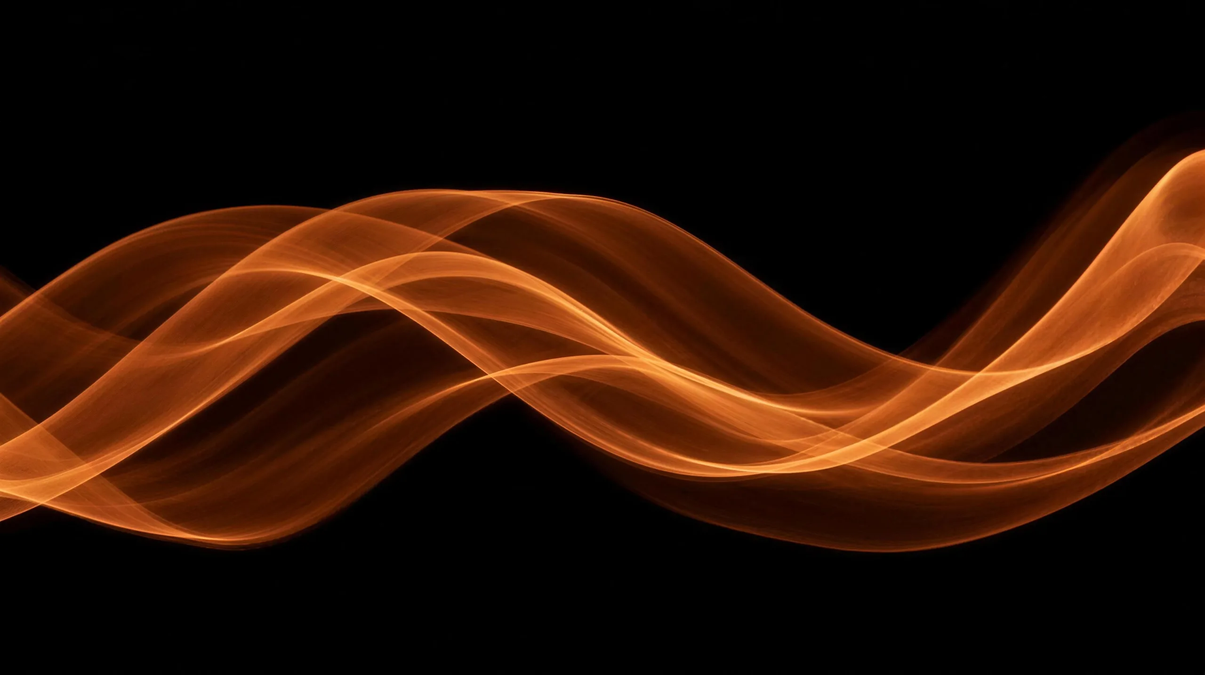
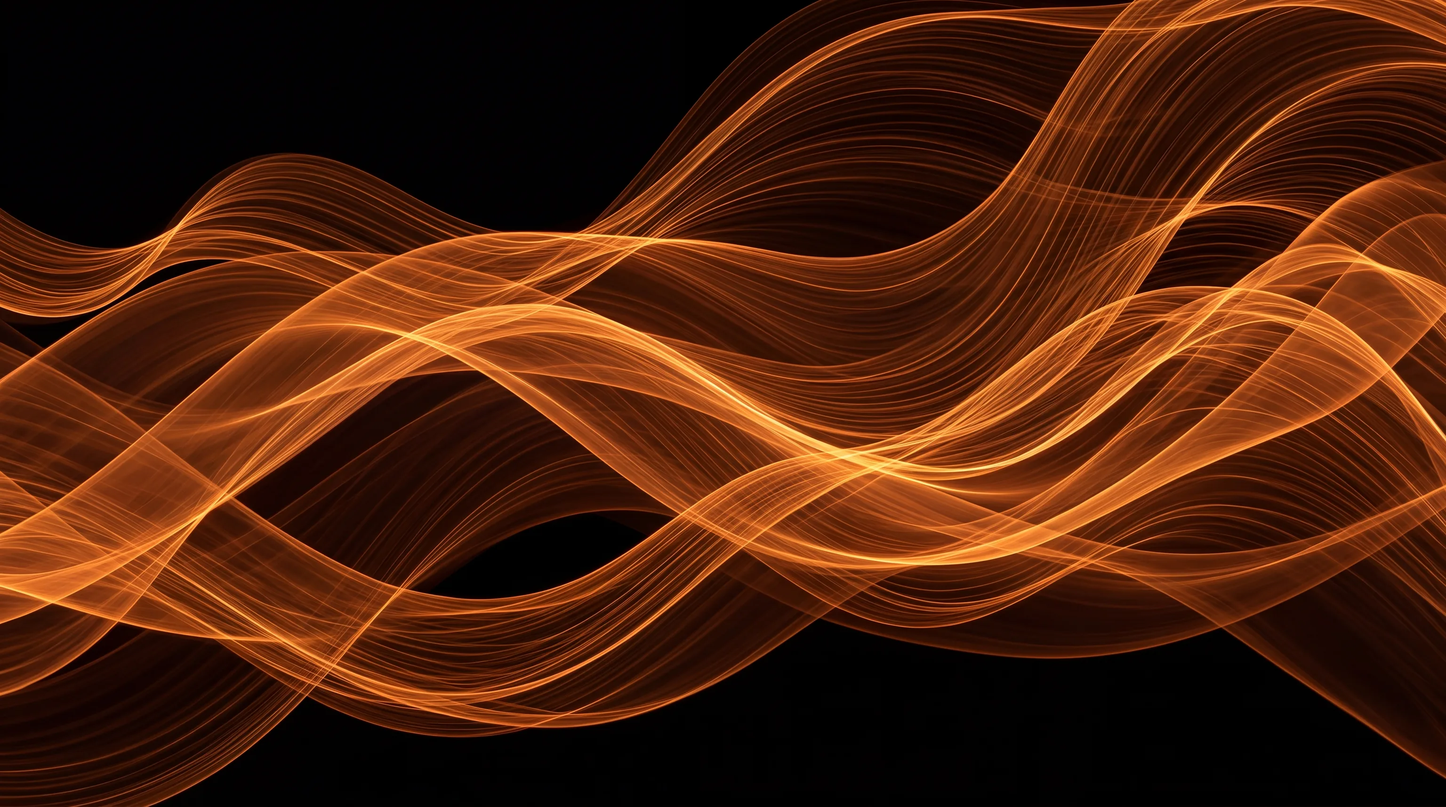
feat(webshop): PULSE v2 — native-4k sfeerbeelden, vollere hero, meer beweging
- Alle 5 sfeerbeelden opnieuw GEGENEREERD met Higgsfield op native 4k
  (5504x3072, nano_banana_flash met het oude beeld als referentie =
  kloon van dezelfde compositie, nu echt scherp) -> 3072px-webp
- 3 NIEUWE productloze sfeerbeelden: regen-treinraam (Werk & school-
  sectie), sterrenhemel (Never at 0.-break voor de finale), warme
  bokeh-partikels (stille FAQ-onderlaag) — alle ge-QA'd (geen product/
  tekst/bliksem)
- Hero voller + powerbank groter: 5/7-grid (reactor domineert), cirkel
  max 640px + product 12% ingezoomd, derde orbit-ring + 2 satellieten +
  pulserende buitengloed; stat-chips en betaalchips vullen de
  linkerkolom (conversie-trust ATF)
- Extra beweging (compositor-only, geen perf-kosten): MarqueeBand
  tussen gallery en sfeerbanden, zachte float-stagger op de tilt-cards
  (eigen wrapper — botst niet met de framer-tilt-transform), nieuwe
  AtmosFeature Werk & school met parallax
- .next image-cache geleegd; reduced-motion-gates uitgebreid

Verificatie: tsc + build schoon (home 194kB First Load); prod-screenshots
desktop+mobiel console-clean, 0px h-overflow; scherpte visueel bevestigd.

diff --git a/components/pulse/PulseHero.tsx b/components/pulse/PulseHero.tsx
@@ -50,13 +50,13 @@ export default function PulseHero() {
         <EmberDrift />
       </div>
 
-      <div className="relative mx-auto grid w-full max-w-[1440px] grid-cols-1 items-center gap-12 px-6 pb-16 pt-28 lg:grid-cols-2 lg:gap-6 lg:px-10 lg:pb-20 lg:pt-24">
+      <div className="relative mx-auto grid w-full max-w-[1440px] grid-cols-1 items-center gap-12 px-6 pb-16 pt-28 lg:grid-cols-12 lg:gap-8 lg:px-10 lg:pb-20 lg:pt-24">
         {/* tekst */}
         <motion.div
           initial={reduce ? false : { opacity: 0, y: 26 }}
           animate={{ opacity: 1, y: 0 }}
           transition={{ duration: 0.7, ease: EASE }}
-          className="order-2 flex flex-col items-start lg:order-1"
+          className="order-2 flex flex-col items-start lg:order-1 lg:col-span-5"
         >
           <span className="font-mono text-[0.66rem] uppercase tracking-[0.26em] text-white/55">
             {BRAND.wordmark} · {BRAND.product}
@@ -87,9 +87,35 @@ export default function PulseHero() {
             </Link>
           </div>
 
+          {/* stat-chips — vullen de linkerkolom + scanbare USP's (bestaande termen) */}
+          <div className="mt-8 flex flex-wrap gap-2.5">
+            {[
+              `${capacityFormatted} mAh`,
+              t('spec_icons.devices', { n: SPECS.simultaneousDevices.value }),
+              t('spec_icons.label_fastcharge'),
+              t('spec_icons.display'),
+            ].map((label) => (
+              <span
+                key={label}
+                className="rounded-full border border-white/[0.12] bg-white/[0.04] px-3.5 py-1.5 font-mono text-[0.62rem] uppercase tracking-[0.14em] text-white/75 backdrop-blur-sm"
+              >
+                {label}
+              </span>
+            ))}
+          </div>
+
           <p className="mt-6 font-body text-[12px] text-[#9C9C9C]">
             {t('trust_inline', { days: safe(TBD.returnPolicyDays) ?? 14 })}
           </p>
+
+          {/* betaal-vertrouwen — stil, vult de lege onderruimte */}
+          <div className="mt-3 flex flex-wrap items-center gap-1.5">
+            {['iDEAL', 'Apple Pay', 'Klarna', 'Visa', 'Mastercard', 'PayPal'].map((m) => (
+              <span key={m} className="rounded border border-white/[0.08] bg-white/[0.03] px-2 py-0.5 font-mono text-[0.56rem] text-[#8E8E8E]">
+                {m}
+              </span>
+            ))}
+          </div>
         </motion.div>
 
         {/* reactor — zwevende cirkel + orbit-ringen */}
@@ -97,27 +123,35 @@ export default function PulseHero() {
           initial={reduce ? false : { opacity: 0, scale: 0.94 }}
           animate={{ opacity: 1, scale: 1 }}
           transition={{ duration: 0.8, delay: 0.1, ease: EASE }}
-          className="order-1 flex items-center justify-center lg:order-2"
+          className="order-1 flex items-center justify-center lg:order-2 lg:col-span-7"
         >
-          <div className="relative aspect-square w-[78vw] max-w-[420px] lg:max-w-[520px]">
-            {/* orbit-ringen */}
-            <svg aria-hidden viewBox="0 0 100 100" className="pulse-ring absolute -inset-[7%] h-[114%] w-[114%]">
-              <circle cx="50" cy="50" r="48.5" fill="none" stroke="rgba(255,140,0,0.35)" strokeWidth="0.35" strokeDasharray="2.4 4.2" />
+          <div className="relative aspect-square w-[88vw] max-w-[460px] lg:max-w-[640px]">
+            {/* orbit-ringen — drie lagen + twee satellieten */}
+            <svg aria-hidden viewBox="0 0 100 100" className="pulse-ring absolute -inset-[6%] h-[112%] w-[112%]">
+              <circle cx="50" cy="50" r="48.5" fill="none" stroke="rgba(255,140,0,0.4)" strokeWidth="0.35" strokeDasharray="2.4 4.2" />
+              <circle cx="98.5" cy="50" r="0.9" fill="#FF8C00" />
             </svg>
-            <svg aria-hidden viewBox="0 0 100 100" className="pulse-ring-rev absolute -inset-[14%] h-[128%] w-[128%]">
-              <circle cx="50" cy="50" r="48.5" fill="none" stroke="rgba(255,255,255,0.14)" strokeWidth="0.25" strokeDasharray="0.7 6.5" />
+            <svg aria-hidden viewBox="0 0 100 100" className="pulse-ring-rev absolute -inset-[13%] h-[126%] w-[126%]">
+              <circle cx="50" cy="50" r="48.5" fill="none" stroke="rgba(255,255,255,0.15)" strokeWidth="0.25" strokeDasharray="0.7 6.5" />
               <circle cx="50" cy="1.5" r="1.1" fill="#FF8C00" />
             </svg>
+            <svg aria-hidden viewBox="0 0 100 100" className="pulse-ring absolute -inset-[20%] h-[140%] w-[140%]" style={{ animationDuration: '70s' }}>
+              <circle cx="50" cy="50" r="48.5" fill="none" stroke="rgba(255,140,0,0.12)" strokeWidth="0.2" strokeDasharray="0.4 9" />
+              <circle cx="1.5" cy="50" r="0.7" fill="rgba(255,170,80,0.9)" />
+            </svg>
+
+            {/* pulserende buitengloed */}
+            <div aria-hidden className="hero-glow-pulse absolute inset-[6%] rounded-full" style={{ boxShadow: '0 0 130px rgba(255,140,0,0.35)' }} />
 
             {/* zwevend halo-product in cirkel */}
-            <div className="pulse-float absolute inset-0 overflow-hidden rounded-full border border-white/[0.1] shadow-[0_0_90px_rgba(255,140,0,0.25)]">
+            <div className="pulse-float absolute inset-0 overflow-hidden rounded-full border border-white/[0.12] shadow-[0_0_110px_rgba(255,140,0,0.3)]">
               <Image
                 src="/images/titanx/gallery/v2/energy-halo.webp"
                 alt={`${BRAND.text} ${BRAND.product} — ${capacityFormatted} mAh power bank met gloeiende lichtring`}
                 fill
                 priority
-                sizes="(max-width: 1024px) 78vw, 520px"
-                className="object-cover object-[52%_38%]"
+                sizes="(max-width: 1024px) 88vw, 640px"
+                className="object-cover object-[52%_38%] scale-[1.12]"
               />
             </div>
           </div>

diff --git a/app/[locale]/page.tsx b/app/[locale]/page.tsx
@@ -5,6 +5,7 @@ import MaisonNav from '@/components/atelier/MaisonNav';
 import PulseHero from '@/components/pulse/PulseHero';
 import StatPulse from '@/components/pulse/StatPulse';
 import TiltGallery from '@/components/pulse/TiltGallery';
+import MarqueeBand from '@/components/industrial/MarqueeBand';
 import AtmosFeature from '@/components/pulse/AtmosFeature';
 import AtmosBreak from '@/components/pulse/AtmosBreak';
 import SpecsPulse from '@/components/pulse/SpecsPulse';
@@ -59,6 +60,7 @@ export default function Home() {
       <PulseHero />
       <StatPulse />
       <TiltGallery />
+      <MarqueeBand />
       <AtmosFeature
         kicker="Road trips"
         title="Camera, telefoon en speakers"
@@ -79,6 +81,15 @@ export default function Home() {
         productPos="object-[center_55%]"
         flip
       />
+      <AtmosFeature
+        kicker="Werk & school"
+        title="Laptop bijna leeg"
+        accent="in de trein?"
+        body="Laadt ook laptops via de ingebouwde USB-C kabel."
+        atmosphere="/images/atmosphere/rain.webp"
+        product="/images/titanx/gallery/v2/life-train.webp"
+        productAlt="naast een laptop in de trein"
+      />
       <AtmosBreak
         atmosphere="/images/atmosphere/mountains.webp"
         kicker="Outdoor"
@@ -86,6 +97,11 @@ export default function Home() {
       />
       <SpecsPulse />
       <FAQ />
+      <AtmosBreak
+        atmosphere="/images/atmosphere/starfield.webp"
+        kicker="Titan X"
+        line="Never at 0."
+      />
       <FinalePulse />
       <Footer />
       <StickyBuyBar />

diff --git a/components/FAQ.tsx b/components/FAQ.tsx
@@ -39,11 +39,12 @@ export default function FAQ() {
 
   return (
     <section id="faq" ref={ref} className="relative py-20 lg:py-32 bg-titan-surface overflow-hidden border-t border-white/[0.06]">
-      {/* Ambient warme gloed bovenaan */}
-      <div
-        className="absolute top-0 left-1/2 -translate-x-1/2 w-[700px] h-[260px] pointer-events-none"
-        style={{ background: 'radial-gradient(ellipse at 50% 0%, rgba(255,140,0,0.04) 0%, transparent 65%)' }}
-      />
+      {/* Partikel-sfeer — heel stil als onderlaag */}
+      <div aria-hidden className="pointer-events-none absolute inset-0 opacity-[0.13]">
+        {/* eslint-disable-next-line @next/next/no-img-element */}
+        <img src="/images/atmosphere/particles.webp" alt="" className="h-full w-full object-cover" loading="lazy" />
+        <div className="absolute inset-0" style={{ background: 'linear-gradient(to bottom, #0A0A0A 0%, rgba(10,10,10,0.45) 50%, #0A0A0A 100%)' }} />
+      </div>
 
       <div className="max-w-4xl mx-auto px-6">
         {/* Header */}

diff --git a/app/globals.css b/app/globals.css
@@ -436,6 +436,17 @@ body::after {
 }
 .pulse-float { animation: pulseFloat 7s ease-in-out infinite; will-change: transform; }
 
+/* Zachte variant voor cards in een grid (subtiel, gestaggerd via delay). */
+@keyframes pulseFloatSoft {
+  0%, 100% { transform: translateY(0); }
+  50%      { transform: translateY(-7px); }
+}
+.pulse-float-soft {
+  animation: pulseFloatSoft 6.5s ease-in-out infinite;
+  animation-delay: var(--float-delay, 0s);
+  will-change: transform;
+}
+
 /* Pulserende CTA-gloed. */
 @keyframes ctaPulse {
   0%, 100% { box-shadow: 0 8px 32px rgba(255,140,0,0.35), 0 0 0 0 rgba(255,140,0,0.35); }
@@ -673,7 +684,7 @@ body::after {
 
 @media (prefers-reduced-motion: reduce) {
   .hero-sweep, .hero-glow-pulse, .text-glow-orange, .final-drop-zoom,
-  .ticker-track, .pulse-blob, .pulse-float, .btn-pulse,
+  .ticker-track, .pulse-blob, .pulse-float, .pulse-float-soft, .btn-pulse,
   .pulse-ring, .pulse-ring-rev { animation: none !important; }
   .card-shine::after { display: none; }
 }

diff --git a/components/pulse/motion.tsx b/components/pulse/motion.tsx
@@ -14,7 +14,15 @@ import {
  * TiltCard — 3D hover-tilt met spring (max ~6°), gecombineerd met de
  * .card-shine glare-sweep. Reduced-motion: statisch.
  */
-export function TiltCard({ children, className = '' }: { children: ReactNode; className?: string }) {
+export function TiltCard({
+  children,
+  className = '',
+  style,
+}: {
+  children: ReactNode;
+  className?: string;
+  style?: React.CSSProperties;
+}) {
   const reduce = useReducedMotion();
   const ref = useRef<HTMLDivElement>(null);
   const rx = useMotionValue(0);
@@ -40,7 +48,7 @@ export function TiltCard({ children, className = '' }: { children: ReactNode; cl
       ref={ref}
       onMouseMove={onMove}
       onMouseLeave={onLeave}
-      style={reduce ? undefined : { rotateX: srx, rotateY: sry, transformPerspective: 900 }}
+      style={reduce ? style : { ...style, rotateX: srx, rotateY: sry, transformPerspective: 900 }}
       className={`card-shine ${className}`}
     >
       {children}

diff --git a/components/pulse/TiltGallery.tsx b/components/pulse/TiltGallery.tsx
@@ -74,6 +74,8 @@ export default function TiltGallery() {
               viewport={{ once: true, amount: 0.2 }}
               transition={{ duration: 0.6, delay: (i % 4) * 0.08, ease: EASE }}
             >
+              {/* float op een eigen wrapper — botst anders met de framer-tilt-transform */}
+              <div className="pulse-float-soft" style={{ ['--float-delay' as string]: `${i * 0.9}s` }}>
               <TiltCard className="overflow-hidden rounded-2xl border border-white/[0.1] bg-[#0C0C0C]">
                 <div className="relative aspect-[4/5]">
                   <Image
@@ -89,6 +91,7 @@ export default function TiltGallery() {
                   </span>
                 </div>
               </TiltCard>
+              </div>
             </motion.div>
           ))}
         </div>
